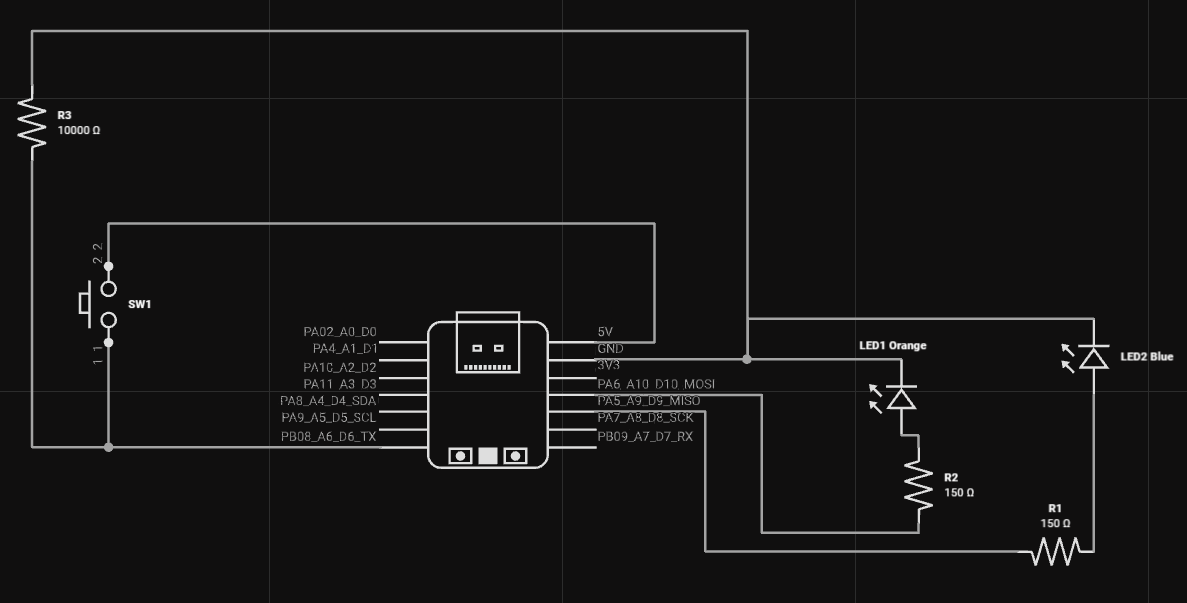
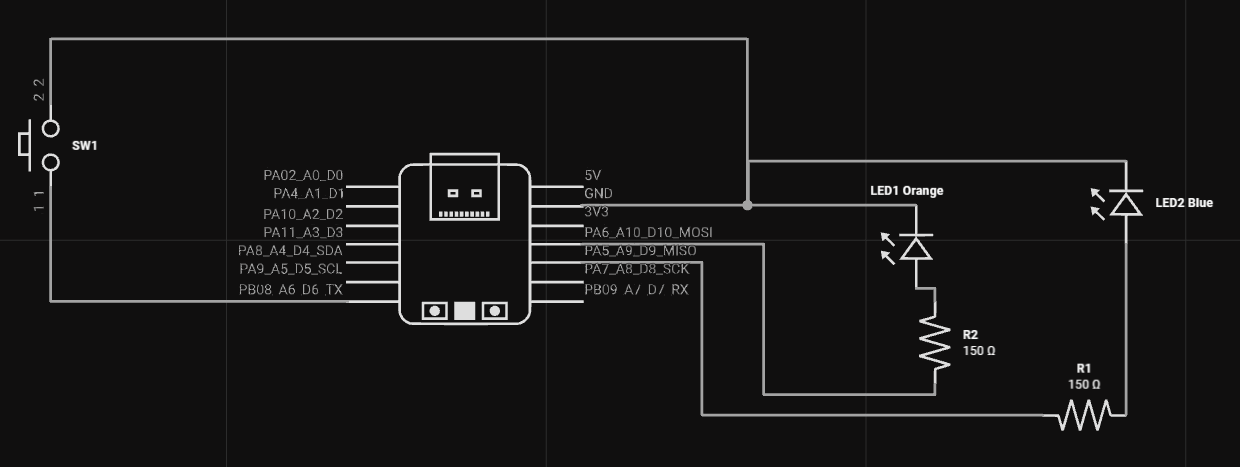
add button handler and update diagram

Changed region(s): [[0.0, 0.03, 0.9975, 0.9593], [0.0623, 0.2998, 0.0935, 0.3298]]

diff --git a/src/main.cpp b/src/main.cpp
@@ -2,9 +2,11 @@
 #include <utils/BLE_setup.h>
 #include <statuses.h>
 #include <utils/actions.h>
+#include <utils/button_handler.h>
 
 void setup()
 {
+  pinMode(buttonPin, INPUT_PULLUP);
   pinMode(buttonLed, OUTPUT);
   pinMode(notificationLed, OUTPUT);
   BLESetup();
@@ -12,22 +14,14 @@ void setup()
 
 void loop()
 {
-  Serial.println(status_bus.get_status());
-
+  handleButtonPress();
   if (status_bus.get_status() == Disconnected)
   {
-    Serial.println("Dis");
     disconnect_status_blink();
   }
 
   if (status_bus.get_status() == Active)
   {
-    Serial.println("Act");
     active_status_blink();
-  }
-
-  if (status_bus.get_status() == Passive)
-  {
-    Serial.println("Pas");
   }
 }

diff --git a/src/utils/button_handler.h b/src/utils/button_handler.h
@@ -1,0 +1,19 @@
+#include <Arduino.h>
+#include <statuses.h>
+
+int buttonPin = D6;
+int lastState = LOW;
+int currentState;
+
+void handleButtonPress()
+{
+    currentState = digitalRead(buttonPin);
+
+    if (lastState == HIGH && currentState == LOW)
+        if (status_bus.get_status() == Passive)
+            status_bus.set_status(Active);
+        if (status_bus.get_status() == Active)
+            status_bus.set_status(Passive);
+
+    lastState = currentState;
+}

diff --git a/src/utils/actions.h b/src/utils/actions.h
@@ -21,5 +21,5 @@ void disconnect_status_blink()
     {
         fadeAmount = -fadeAmount;
     }
-    delay(30);
+    delay(50);
 }
